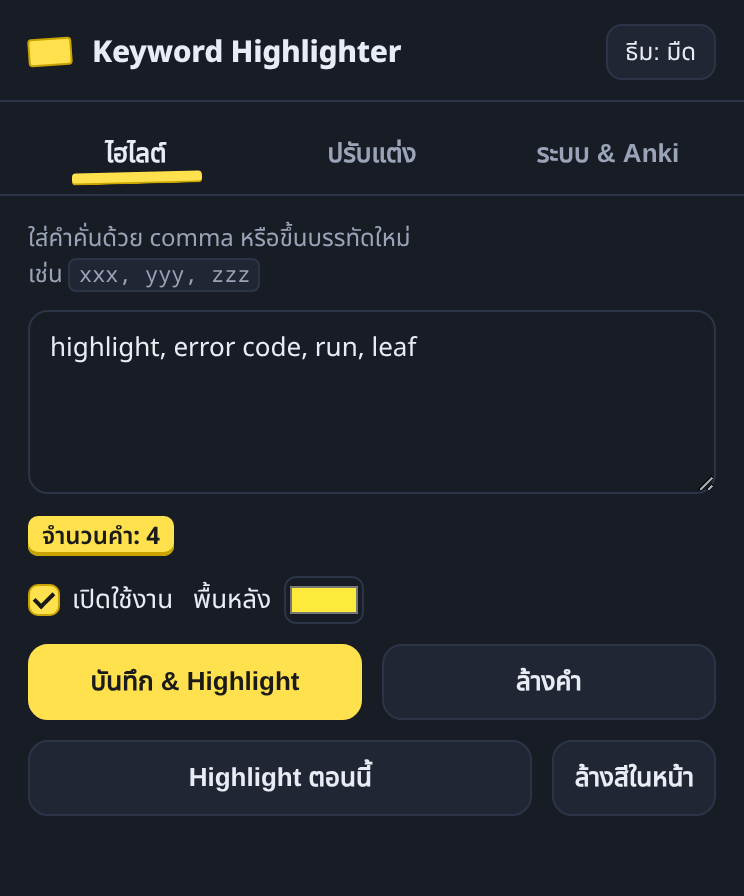
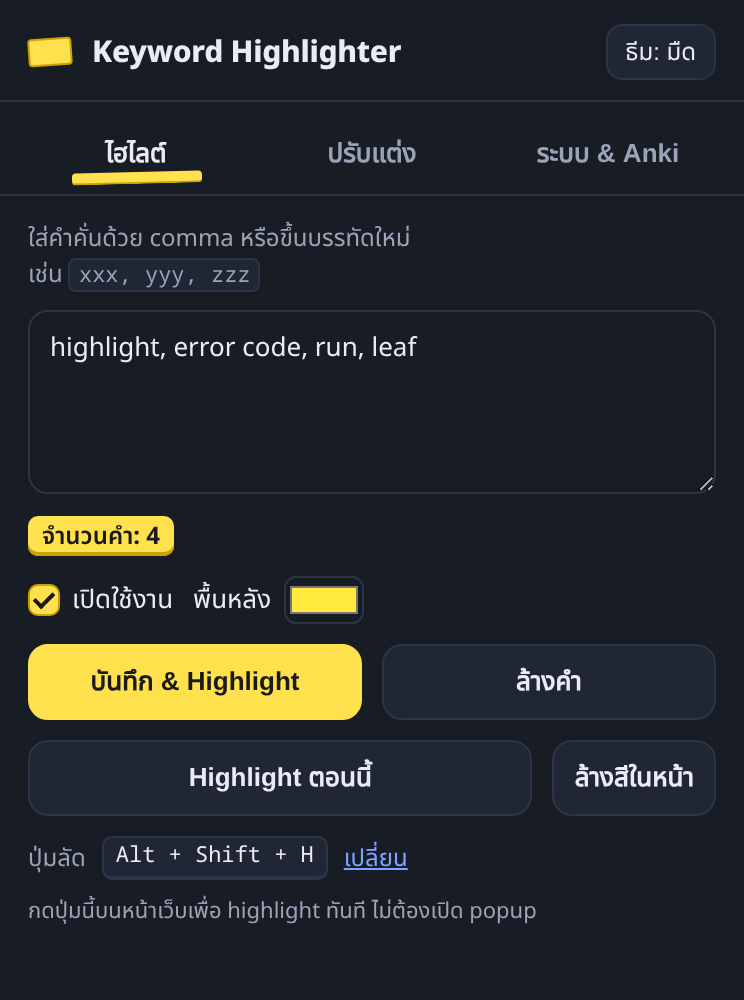
feat: configurable keyboard shortcut for highlight now
- add shortcut.js to parse and match user-defined key combos
- record a new shortcut in the popup (Esc cancels, Backspace unbinds)
- trigger highlight from the page with the saved shortcut
- keep shortcut defaults and matching covered by tests

diff --git a/shortcut.js b/shortcut.js
@@ -1,0 +1,130 @@
+/* Shared keyboard shortcut helpers (no chrome.* dependency).
+ * Canonical format: "Ctrl+Alt+Shift+H" — modifiers first, key last.
+ * Keys are derived from KeyboardEvent.code so the combo works on any layout.
+ */
+const Shortcut = (() => {
+  "use strict";
+
+  const DEFAULT = "Alt+Shift+H";
+
+  const SPECIAL = {
+    Space: "Space",
+    Comma: "Comma",
+    Period: "Period",
+    Slash: "Slash",
+    Semicolon: "Semicolon",
+    Quote: "Quote",
+    BracketLeft: "BracketLeft",
+    BracketRight: "BracketRight",
+    Backslash: "Backslash",
+    Minus: "Minus",
+    Equal: "Equal",
+    Backquote: "Backquote",
+    ArrowUp: "ArrowUp",
+    ArrowDown: "ArrowDown",
+    ArrowLeft: "ArrowLeft",
+    ArrowRight: "ArrowRight",
+    Home: "Home",
+    End: "End",
+    PageUp: "PageUp",
+    PageDown: "PageDown",
+    Insert: "Insert",
+    Delete: "Delete",
+  };
+
+  const LABEL = {
+    Comma: ",",
+    Period: ".",
+    Slash: "/",
+    Semicolon: ";",
+    Quote: "'",
+    BracketLeft: "[",
+    BracketRight: "]",
+    Backslash: "\\",
+    Minus: "-",
+    Equal: "=",
+    Backquote: "`",
+    ArrowUp: "↑",
+    ArrowDown: "↓",
+    ArrowLeft: "←",
+    ArrowRight: "→",
+    Delete: "Del",
+    Insert: "Ins",
+    PageUp: "PgUp",
+    PageDown: "PgDn",
+  };
+
+  function keyFromEvent(e) {
+    const code = String((e && e.code) || "");
+    let m = /^Key([A-Z])$/.exec(code);
+    if (m) return m[1];
+    m = /^Digit([0-9])$/.exec(code);
+    if (m) return m[1];
+    if (SPECIAL[code]) return SPECIAL[code];
+    // fallback for synthetic events that have no `code`
+    const k = String((e && e.key) || "");
+    if (/^[a-zA-Z]$/.test(k)) return k.toUpperCase();
+    if (/^[0-9]$/.test(k)) return k;
+    return null;
+  }
+
+  function isModifierKey(e) {
+    return ["Control", "Alt", "Shift", "Meta"].includes(e && e.key);
+  }
+
+  // Returns canonical combo, or null if the event has no usable key.
+  function fromEvent(e) {
+    const key = keyFromEvent(e);
+    if (!key) return null;
+    const mods = [];
+    if (e.ctrlKey) mods.push("Ctrl");
+    if (e.altKey) mods.push("Alt");
+    if (e.shiftKey) mods.push("Shift");
+    if (e.metaKey) mods.push("Meta");
+    return [...mods, key].join("+");
+  }
+
+  function parse(str) {
+    if (!str || typeof str !== "string") return null;
+    const parts = str.split("+").map((s) => s.trim()).filter(Boolean);
+    if (parts.length < 2) return null;
+    const key = parts.pop();
+    const out = { ctrl: false, alt: false, shift: false, meta: false, key };
+    for (const p of parts) {
+      const l = p.toLowerCase();
+      if (l === "ctrl" || l === "control") out.ctrl = true;
+      else if (l === "alt" || l === "option") out.alt = true;
+      else if (l === "shift") out.shift = true;
+      else if (l === "meta" || l === "cmd" || l === "command") out.meta = true;
+      else return null;
+    }
+    return out;
+  }
+
+  function hasRequiredModifier(str) {
+    const p = parse(str);
+    return !!p && (p.ctrl || p.alt || p.meta);
+  }
+
+  function matches(e, str) {
+    const p = parse(str);
+    if (!p) return false;
+    if (e.ctrlKey !== p.ctrl) return false;
+    if (e.altKey !== p.alt) return false;
+    if (e.shiftKey !== p.shift) return false;
+    if (e.metaKey !== p.meta) return false;
+    return keyFromEvent(e) === p.key;
+  }
+
+  function format(str) {
+    if (!str) return "";
+    return String(str)
+      .split("+")
+      .map((p) => LABEL[p] || p)
+      .join(" + ");
+  }
+
+  return { DEFAULT, keyFromEvent, isModifierKey, fromEvent, parse, hasRequiredModifier, matches, format };
+})();
+
+if (typeof module !== "undefined" && module.exports) module.exports = Shortcut;

diff --git a/popup.js b/popup.js
@@ -12,6 +12,7 @@ const DEFAULTS = {
   enabled: true,
   autoHighlight: true,
   theme: "system",
+  shortcut: "Alt+Shift+H",
   ankiUrl: "http://127.0.0.1:8765",
   ankiKey: "",
   ankiDeck: "",
@@ -21,6 +22,8 @@ const DEFAULTS = {
 
 let cachedAuto = true;
 let currentTheme = "system";
+let currentShortcut = Shortcut.DEFAULT;
+let recordingShortcut = false;
 const mediaDark = window.matchMedia ? window.matchMedia("(prefers-color-scheme: dark)") : null;
 
 function getAnkiMode() {
@@ -83,12 +86,14 @@ async function load() {
   $("autoHighlight").checked = data.autoHighlight !== false;
   cachedAuto = $("autoHighlight").checked;
   currentTheme = data.theme || "system";
+  currentShortcut = data.shortcut != null ? data.shortcut : Shortcut.DEFAULT;
   $("ankiUrl").value = data.ankiUrl || DEFAULTS.ankiUrl;
   $("ankiKey").value = data.ankiKey || "";
   $("ankiDeck").value = data.ankiDeck || "";
   $("ankiField").value = data.ankiField || "";
   setAnkiMode(data.ankiMode || "learned");
   updateCount(data.keywords);
+  renderShortcut();
   applyTheme();
   let initial = "highlight";
   try {
@@ -174,6 +179,66 @@ $("highlightNow").addEventListener("click", async () => {
 $("clearPage").addEventListener("click", async () => {
   await notifyTabs("CE_CLEAR");
 });
+
+// --- ปุ่มลัด: กดเปลี่ยนแล้วบันทึกปุ่มที่กดใน popup ---
+function renderShortcut() {
+  $("shortcutKeys").textContent = currentShortcut ? Shortcut.format(currentShortcut) : "ยังไม่ได้ตั้ง";
+}
+
+function setRecording(on) {
+  recordingShortcut = on;
+  const kbd = $("shortcutKeys");
+  kbd.classList.toggle("recording", on);
+  $("editShortcut").textContent = on ? "ยกเลิก" : "เปลี่ยน";
+  if (on) {
+    kbd.textContent = "กดปุ่มลัด…";
+    $("shortcutHint").textContent = "ต้องมี Ctrl, Alt หรือ Meta · Backspace ล้าง · Esc ยกเลิก";
+  } else {
+    renderShortcut();
+    $("shortcutHint").textContent = "กดปุ่มนี้บนหน้าเว็บเพื่อ highlight ทันที ไม่ต้องเปิด popup";
+  }
+}
+
+async function saveShortcut(combo) {
+  currentShortcut = combo;
+  await AnkiSync.saveSettings(chrome.storage, { shortcut: combo });
+  setRecording(false);
+  $("shortcutHint").textContent = combo
+    ? `บันทึกแล้ว: กด ${Shortcut.format(combo)} บนหน้าเว็บเพื่อ highlight`
+    : "ล้างปุ่มลัดแล้ว";
+}
+
+$("editShortcut").addEventListener("click", () => setRecording(!recordingShortcut));
+
+document.addEventListener(
+  "keydown",
+  async (e) => {
+    if (!recordingShortcut) return;
+    if (e.key === "Escape") {
+      e.preventDefault();
+      setRecording(false);
+      return;
+    }
+    if (e.key === "Tab") {
+      setRecording(false);
+      return; // ปล่อยให้ Tab ย้ายโฟกัสตามปกติ
+    }
+    e.preventDefault();
+    e.stopPropagation();
+    if (Shortcut.isModifierKey(e)) return;
+    if (!e.ctrlKey && !e.altKey && !e.metaKey && (e.key === "Backspace" || e.key === "Delete")) {
+      await saveShortcut("");
+      return;
+    }
+    const combo = Shortcut.fromEvent(e);
+    if (!combo || !Shortcut.hasRequiredModifier(combo)) {
+      $("shortcutHint").textContent = "ต้องมี Ctrl, Alt หรือ Meta · Esc ยกเลิก";
+      return;
+    }
+    await saveShortcut(combo);
+  },
+  true,
+);
 
 $("clear").addEventListener("click", async () => {
   $("keywords").value = "";

diff --git a/content.js b/content.js
@@ -6,6 +6,7 @@
   const DEFAULT_COLOR = "#ffeb3b";
 
   const HL = typeof Highlight !== "undefined" ? Highlight : null;
+  const SC = typeof Shortcut !== "undefined" ? Shortcut : null;
 
   let current = {
     keywords: [],
@@ -18,6 +19,7 @@
     inflect: true,
     enabled: true,
     autoHighlight: true,
+    shortcut: SC ? SC.DEFAULT : "Alt+Shift+H",
   };
   let debounceTimer = 0;
   let observer = null;
@@ -201,9 +203,10 @@
         inflect: data.inflect !== false,
         enabled: data.enabled !== false,
         autoHighlight: data.autoHighlight !== false,
+        shortcut: data.shortcut != null ? data.shortcut : SC ? SC.DEFAULT : "",
       };
     } catch {
-      current = { keywords: [], color: DEFAULT_COLOR, textColor: "#000000", bold: false, underline: false, caseSensitive: false, wholeWord: true, inflect: true, enabled: true, autoHighlight: true };
+      current = { keywords: [], color: DEFAULT_COLOR, textColor: "#000000", bold: false, underline: false, caseSensitive: false, wholeWord: true, inflect: true, enabled: true, autoHighlight: true, shortcut: SC ? SC.DEFAULT : "" };
     }
     ensureObserver();
     // โหมด manual สมบูรณ์: ไม่ apply อัตโนมัติเลย ยกเว้นกดปุ่ม (reason === "manual")
@@ -233,10 +236,11 @@
       if (changes.inflect) current.inflect = changes.inflect.newValue !== false;
       if (changes.enabled) current.enabled = changes.enabled.newValue !== false;
       if (changes.autoHighlight) current.autoHighlight = changes.autoHighlight.newValue !== false;
+      if (changes.shortcut) current.shortcut = changes.shortcut.newValue || "";
     }
     ensureObserver();
-    // เปลี่ยนแค่ธีม/ค่า Anki ไม่ต้อง rebuild DOM ทั้งหน้า
-    const relevant = Object.keys(changes).some((k) => k !== "theme" && !k.startsWith("anki"));
+    // เปลี่ยนแค่ธีม/ค่า Anki/ปุ่มลัด ไม่ต้อง rebuild DOM ทั้งหน้า
+    const relevant = Object.keys(changes).some((k) => k !== "theme" && k !== "shortcut" && !k.startsWith("anki"));
     if (!relevant) return;
     // โหมด manual: เปลี่ยนค่าอะไรก็ไม่ apply เอง ยกเว้นกดปิดใช้งาน → ล้างทันที
     if (!current.autoHighlight) {
@@ -254,6 +258,20 @@
       clearHighlights();
     }
   });
+
+  // ปุ่มลัดที่ผู้ใช้ตั้งเอง — ทำงานเฉพาะตอนโฟกัสอยู่บนหน้าเว็บ
+  window.addEventListener(
+    "keydown",
+    (e) => {
+      if (!SC || e.repeat || e.isComposing) return;
+      if (!current.shortcut) return;
+      if (!SC.matches(e, current.shortcut)) return;
+      e.preventDefault();
+      e.stopPropagation();
+      reloadSettings("manual");
+    },
+    true,
+  );
 
   // รองรับเว็บโหลดเนื้อหาเพิ่มทีหลัง (infinite scroll / SPA) — เฉพาะโหมด auto
   // observer ถูกสร้าง/ตัดผ่าน ensureObserver() ตามค่า autoHighlight + enabled

diff --git a/popup.html b/popup.html
@@ -127,6 +127,20 @@
   html[data-theme="dark"] .btn.primary { background: var(--marker); color: #1a1a1a; border-color: var(--marker); }
   .btn:disabled { opacity: 0.6; cursor: wait; }
   .btn.ghost { flex: none; }
+  .shortcut-row { display: flex; align-items: center; gap: 8px; margin-top: 10px; font-size: 12px; }
+  .shortcut-label { color: var(--muted); }
+  kbd {
+    font-family: ui-monospace, SFMono-Regular, Menlo, monospace;
+    font-size: 11px; color: var(--ink);
+    background: var(--wash); border: 1px solid var(--line); border-bottom-width: 2px;
+    border-radius: 5px; padding: 1px 6px;
+  }
+  kbd.recording { background: var(--marker); color: var(--marker-ink); border-color: var(--marker-edge); }
+  .linkbtn {
+    border: 0; background: none; padding: 0; font: inherit; font-size: 12px;
+    color: var(--pond); text-decoration: underline; cursor: pointer; flex: none;
+  }
+  html[data-theme="dark"] .linkbtn { color: var(--pond); }
   .seg { display: flex; border: 1px solid var(--line); border-radius: 9px; overflow: hidden; }
   .seg button { flex: 1; border: 0; background: var(--paper); color: var(--muted); font-size: 12px; font-weight: 600; padding: 7px 10px; cursor: pointer; }
   .seg button[aria-pressed="true"] { background: var(--ink); color: var(--paper); }
@@ -177,6 +191,12 @@
         <button id="highlightNow" class="btn" type="button">Highlight ตอนนี้</button>
         <button id="clearPage" class="btn ghost" type="button" title="ล้างแถบสีในหน้าที่เปิดอยู่">ล้างสีในหน้า</button>
       </div>
+      <div class="shortcut-row">
+        <span class="shortcut-label">ปุ่มลัด</span>
+        <kbd id="shortcutKeys">Alt + Shift + H</kbd>
+        <button id="editShortcut" class="linkbtn" type="button">เปลี่ยน</button>
+      </div>
+      <p class="tiny" id="shortcutHint">กดปุ่มนี้บนหน้าเว็บเพื่อ highlight ทันที ไม่ต้องเปิด popup</p>
       <div id="status" role="status"></div>
     </section>
 
@@ -246,6 +266,7 @@
     </section>
   </main>
 
+  <script src="shortcut.js"></script>
   <script src="anki.js"></script>
   <script src="popup.js"></script>
 </body>

diff --git a/anki.js b/anki.js
@@ -105,7 +105,7 @@ const AnkiSync = (() => {
 
   // storage split: keywords can exceed chrome.storage.sync limits
   // (8KB per item), so they live in storage.local; small prefs stay in sync.
-  const SETTING_KEYS = ["color", "textColor", "bold", "underline", "caseSensitive", "wholeWord", "inflect", "enabled", "autoHighlight", "theme", "ankiUrl", "ankiKey", "ankiDeck", "ankiField", "ankiMode"];
+  const SETTING_KEYS = ["color", "textColor", "bold", "underline", "caseSensitive", "wholeWord", "inflect", "enabled", "autoHighlight", "theme", "shortcut", "ankiUrl", "ankiKey", "ankiDeck", "ankiField", "ankiMode"];
   const SETTING_DEFAULTS = {
     color: "#ffeb3b",
     textColor: "#000000",
@@ -117,6 +117,7 @@ const AnkiSync = (() => {
     enabled: true,
     autoHighlight: true,
     theme: "system",
+    shortcut: "Alt+Shift+H",
     ankiUrl: "http://127.0.0.1:8765",
     ankiKey: "",
     ankiDeck: "",

diff --git a/README.md b/README.md
@@ -27,6 +27,7 @@
 - **Sync จาก Anki** — ดึงคำจาก deck ที่เลือกผ่าน Anki-Connect
 - **Light / Dark / ตามระบบ** — จำธีมที่เลือกไว้
 - **โหมด manual** — หยุด Observer ทั้งหมด กดปุ่มเองเมื่อพร้อม เลือกข้อความได้ไม่หลุด
+- **ปุ่มลัดตั้งเองได้** — กด `Alt + Shift + H` เพื่อ highlight ทันที หรือเปลี่ยนเป็นปุ่มที่ถนัด
 
 <div align="center">
 <table>
@@ -84,6 +85,16 @@
 
 เมื่ออยู่ในโหมด manual ใช้ปุ่ม **Highlight ตอนนี้** บนแท็บแรก (ปุ่มนี้จะบันทึกค่าล่าสุดให้ก่อนเสมอ)
 
+## ปุ่มลัด
+
+ค่าเริ่มต้นคือ **`Alt + Shift + H`** ใช้ได้ทันทีบนหน้าเว็บ โดยไม่ต้องเปิด popup
+
+เปลี่ยนปุ่มได้ที่แท็บ **ไฮไลต์** → กด **เปลี่ยน** ข้างปุ่มลัด แล้วกดชุดปุ่มที่ต้องการ
+
+- ต้องมี `Ctrl`, `Alt` หรือ `Meta` (Shift ใส่หรือไม่ก็ได้)
+- `Backspace` ล้างปุ่มลัด, `Esc` ยกเลิก
+- ปุ่มจะทำงานเมื่อโฟกัสอยู่บนหน้าเว็บ และใช้ค่าล่าสุดที่บันทึกไว้
+
 ## Sync Anki
 
 1. เปิด Anki ค้างไว้
@@ -122,6 +133,7 @@ chrome-highlight-extension/
 ├── popup.js             # โหลด/บันทึกค่า, สลับแท็บ, sync Anki
 ├── content.js           # เดิน text node, highlight, observer, manual mode
 ├── content.css          # สไตล์ของ span.ce-highlight
+├── shortcut.js          # parse/เทียบปุ่มลัดที่ผู้ใช้ตั้งเอง
 ├── highlight.js         # parse keywords, ขยายรูปผัน, สร้าง trie regex
 ├── anki.js              # Anki-Connect client + storage helper
 ├── test-*.mjs           # unit + browser tests
@@ -157,6 +169,7 @@ npm run shots      # สร้างภาพ popup ใหม่ลง docs/
 | Sync ไม่ติด | เปิด Anki, เช็ค Anki-Connect, approve popup ใน Anki, ใส่ origin ใน `webCorsOriginList` |
 | คำภาษาไทยไม่โดน | ปิด **จับทั้งคำเท่านั้น** เพื่อจับแบบ substring |
 | เปลี่ยนสีแล้วไม่เห็นผล | โหมด manual ต้องกด **Highlight ตอนนี้** |
+| ปุ่มลัดไม่ทำงาน | เช็คว่าโฟกัสอยู่บนหน้าเว็บ ไม่ใช่ในช่อง address bar และปุ่มไม่ชนกับ shortcut ของ Chrome |
 
 ## License
 
